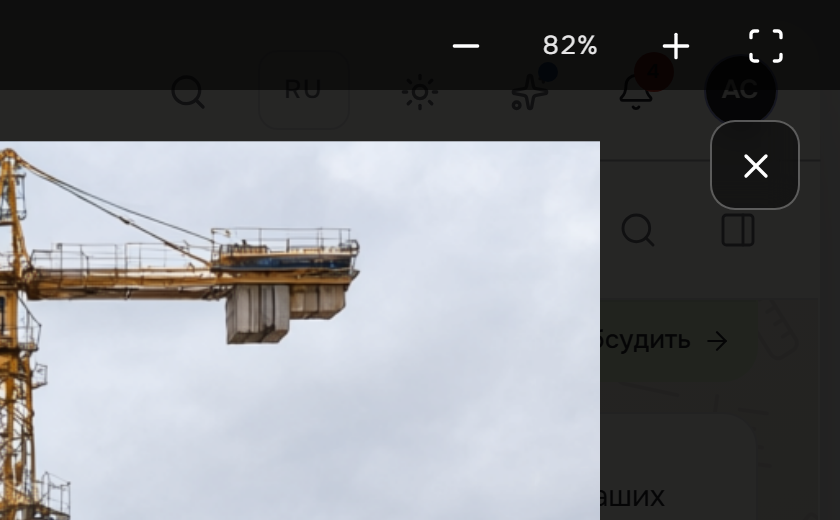
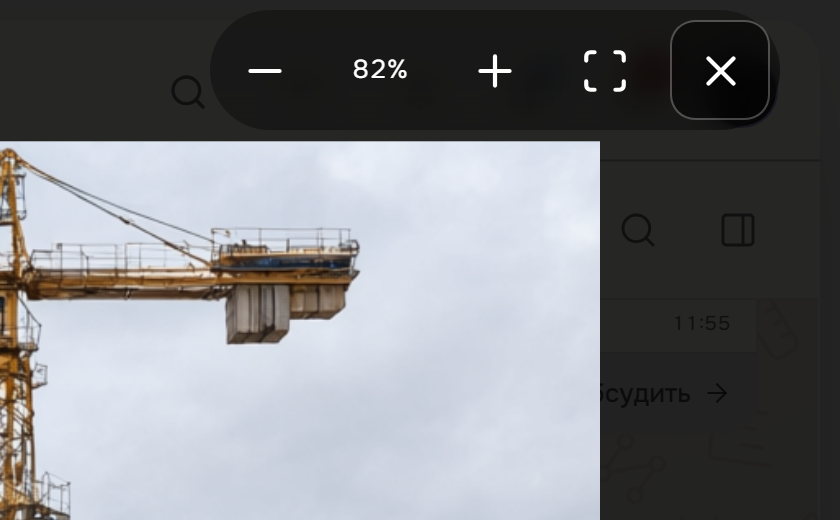
fix(web): хром просмотра — плавающая группа над кадром, фон на весь экран (#1012)

diff --git a/apps/web/src/shared/chat/image-lightbox.tsx b/apps/web/src/shared/chat/image-lightbox.tsx
@@ -1,12 +1,11 @@
-import { ChevronLeft, ChevronRight, X } from 'lucide-react';
-import { useEffect, useRef, type MouseEvent as ReactMouseEvent } from 'react';
+import { ChevronLeft, ChevronRight, Minus, Plus, Scan, X } from 'lucide-react';
+import { useEffect, useMemo, useRef, useState, type MouseEvent as ReactMouseEvent } from 'react';
 import { createPortal } from 'react-dom';
 import type { MessageAttachment } from '@nodus/contracts';
 import { ui } from '@nodus/contracts';
 import { Button } from '@nodus/ui/components/button';
 
 import { useImageZoom } from '../files/use-image-zoom.js';
-import { ViewerZoomBar } from '../files/viewer-zoom-bar.js';
 import { LightboxFrame } from './lightbox-frame.js';
 /**
  * Лайтбокс изображения галереи (plan chat-attachments-plan, добро владельца
@@ -18,17 +17,24 @@ import { LightboxFrame } from './lightbox-frame.js';
  * (a11y); клики по самому фото и кнопкам не закрывают диалог. Кадр, загрузка
  * и ретрай — `lightbox-frame.tsx`.
  *
- * Зум (#721): та же панель масштаба, что у вложений (`ViewerZoomBar`), в той
- * же верхней полосе; 100% — натуральные пиксели, вписывание — «по размеру
- * экрана» с полями 15%. Стрелки делят две роли (решение #721): фокус в
- * области просмотра И картинка больше окна — стрелки сдвигают её (панорама),
- * иначе — листают галерею, как раньше; `+`/`−`/`0` работают только при фокусе
- * в области. Смена кадра сбрасывает масштаб и сдвиг.
+ * Зум (#721): 100% — натуральные пиксели, вписывание — «по размеру экрана»
+ * с полями 15%. Стрелки делят две роли (решение #721): фокус в области
+ * просмотра И картинка больше окна — стрелки сдвигают её (панорама), иначе —
+ * листают галерею, как раньше; `+`/`−`/`0` работают только при фокусе в
+ * области. Смена кадра сбрасывает масштаб и сдвиг.
  *
- * Крестик — отдельная плашка со скруглением НИЖЕ полосы (24.11.2026): в
- * оболочке он стоял впритык под системным крестиком окна и читался второй
- * кнопкой закрытия окна; промах сворачивал программу в трей.
+ * Хром (вердикт владельца 25.11.2026): фон — СПЛОШНОЕ затемнение всего экрана
+ * (кадр остаётся ярким), а строка масштаба с крестиком плавает свободной
+ * группой в тёмном поле НАД кадром — по центру свободного поля между верхним
+ * краем кадра и верхней кромкой экрана. Так значки не стоят впритык к кнопкам
+ * окна оболочки (у верхней кромки получались «два крестика») и не накрывают
+ * фото; компактные плашки под счётчиком и группой держат контраст, когда
+ * увеличенный кадр уходит под хром.
  */
+
+/** Кнопки масштаба в группе хрома: белые ghost-значки крупнее обычных. */
+const CONTROL_CLASS =
+  "text-white hover:bg-white/15 hover:text-white [&_svg:not([class*='size-'])]:size-5";
 
 /** Доля экрана под вписанную картинку — те же поля, что у кадра лайтбокса. */
 const FIT_FACTOR = 0.85;
@@ -57,6 +63,34 @@ export function ImageLightbox({
   const image = images[index];
   // Зум живёт на весь лайтбокс, но сбрасывается сменой кадра (resetKey).
   const zoom = useImageZoom({ fitFactor: FIT_FACTOR, resetKey: image?.id });
+
+  // Свободное поле над кадром (те же 85% окна без апскейла, что у кадра):
+  // строка хрома центрируется в нём, а не прижимается к верхней кромке.
+  const [viewport, setViewport] = useState(() => ({
+    width: typeof window === 'undefined' ? 0 : window.innerWidth,
+    height: typeof window === 'undefined' ? 0 : window.innerHeight,
+  }));
+  useEffect(() => {
+    const measure = () => setViewport({ width: window.innerWidth, height: window.innerHeight });
+    measure();
+    window.addEventListener('resize', measure);
+    return () => window.removeEventListener('resize', measure);
+  }, []);
+  const chromeTop = useMemo(() => {
+    const width = image?.width ?? 0;
+    const height = image?.height ?? 0;
+    if (width > 0 && height > 0 && viewport.height > 0) {
+      const ratio = width / height;
+      const fitWidth = Math.min(
+        FIT_FACTOR * viewport.width,
+        FIT_FACTOR * viewport.height * ratio,
+        width,
+      );
+      return Math.max(0, (viewport.height - fitWidth / ratio) / 2) / 2;
+    }
+    // Кадр без габаритов (старые строки) — потоковый фолбэк: поле 15% экрана.
+    return (viewport.height * 0.075) / 2;
+  }, [image?.width, image?.height, viewport]);
 
   // Отложенное закрытие по заднику (см. BACKDROP_CLOSE_DELAY): второй клик
   // пары или `dblclick` его отменяют — двойной клик только меняет масштаб.
@@ -133,41 +167,75 @@ export function ImageLightbox({
       onPointerDown={(event) => event.stopPropagation()}
       className="pointer-events-auto fixed inset-0 z-[80] flex items-center justify-center bg-black/85 outline-none"
     >
-      {/* Хром лайтбокса — ОТДЕЛЬНЫЙ слой над кадром (z-20 против z-0 кадра).
-          Подложка СПЛОШНАЯ (`bg-black/60` + blur), не градиент: на светлом
-          скриншоте градиентный скрим не читался и полоса сливалась с фото
-          (живая проверка 11.11). Крестик — отдельная плашка НИЖЕ полосы
-          (замечание владельца 24.11.2026): в оболочке он стоял вплотную
-          под системным крестиком окна, выглядел так же и читался второй
-          кнопкой закрытия окна (промах сворачивает программу в трей).
-          Полоса места под него больше не резервирует. */}
-      <div className="absolute inset-x-0 top-0 z-20" onClick={(event) => event.stopPropagation()}>
-        <ViewerZoomBar
-          leading={`${index + 1} / ${images.length}`}
-          leadingClassName="font-mono text-xs tabular-nums text-white"
-          percent={zoom.percent}
-          canZoomIn={zoom.canZoomIn}
-          canZoomOut={zoom.canZoomOut}
-          onZoomIn={zoom.zoomIn}
-          onZoomOut={zoom.zoomOut}
-          onReset={zoom.reset}
-          className="bg-black/60 text-white/90 backdrop-blur-sm"
-          controlClassName="text-white hover:bg-white/15 hover:text-white"
-        />
-      </div>
-      <Button
-        variant="ghost"
-        size="icon-lg"
-        aria-label={ui.common.close}
-        title={ui.common.close}
-        className="absolute top-12 right-4 z-20 border-white/25 bg-black/45 text-white backdrop-blur-sm hover:border-white/40 hover:bg-white/15 hover:text-white"
-        onClick={(e) => {
-          e.stopPropagation();
-          onClose();
-        }}
+      {/* Хром — свободная строка в тёмном поле над кадром (вердикт 25.11.2026):
+          фон сплошной, кадр яркий и не накрыт; строка центрируется в свободном
+          поле над кадром — у верхней кромки значки читались рядом с кнопками
+          окна. Компактные плашки держат контраст, когда увеличенный кадр
+          уходит под хром. */}
+      <div
+        role="toolbar"
+        aria-label={ui.files.zoomPanel}
+        className="absolute inset-x-0 z-20 -translate-y-1/2 px-6"
+        style={{ top: chromeTop }}
+        onClick={(event) => event.stopPropagation()}
       >
-        <X />
-      </Button>
+        <div className="flex items-center justify-between gap-3">
+          <span className="rounded-full bg-black/35 px-2.5 py-1 font-mono text-xs tabular-nums text-white backdrop-blur-sm">
+            {index + 1} / {images.length}
+          </span>
+          <div className="flex items-center gap-1 rounded-full bg-black/35 p-1 text-white backdrop-blur-sm">
+            <Button
+              type="button"
+              variant="ghost"
+              size="icon-lg"
+              onClick={zoom.zoomOut}
+              disabled={!zoom.canZoomOut}
+              aria-label={ui.files.zoomOut}
+              title={ui.files.zoomOut}
+              className={CONTROL_CLASS}
+            >
+              <Minus />
+            </Button>
+            <span className="w-12 text-center text-[13px] tabular-nums">{zoom.percent}%</span>
+            <Button
+              type="button"
+              variant="ghost"
+              size="icon-lg"
+              onClick={zoom.zoomIn}
+              disabled={!zoom.canZoomIn}
+              aria-label={ui.files.zoomIn}
+              title={ui.files.zoomIn}
+              className={CONTROL_CLASS}
+            >
+              <Plus />
+            </Button>
+            <Button
+              type="button"
+              variant="ghost"
+              size="icon-lg"
+              onClick={zoom.reset}
+              aria-label={ui.files.zoomFit}
+              title={ui.files.zoomFit}
+              className={`${CONTROL_CLASS} ml-1`}
+            >
+              <Scan />
+            </Button>
+            <Button
+              variant="ghost"
+              size="icon-lg"
+              aria-label={ui.common.close}
+              title={ui.common.close}
+              className="ml-1 size-10 border-white/25 bg-black/45 text-white hover:border-white/40 hover:bg-white/15 hover:text-white [&_svg:not([class*='size-'])]:size-5"
+              onClick={(e) => {
+                e.stopPropagation();
+                onClose();
+              }}
+            >
+              <X />
+            </Button>
+          </div>
+        </div>
+      </div>
       {index > 0 ? (
         <Button
           variant="ghost"

diff --git a/apps/web/src/shared/chat/image-lightbox-zoom.test.tsx b/apps/web/src/shared/chat/image-lightbox-zoom.test.tsx
@@ -116,36 +116,35 @@ describe('ImageLightbox: масштаб', () => {
     expect(screen.getByText('1 / 2')).toBeTruthy();
   });
 
-  it('полоса и кнопки — отдельный слой над кадром при увеличении', () => {
+  it('хром и кнопки — отдельный слой над кадром при увеличении', () => {
     renderLightbox();
     fireEvent.click(button(ui.files.zoomIn));
     fireEvent.click(button(ui.files.zoomIn));
     expect(percent()).toBe('125%');
 
     const toolbar = screen.getByRole('toolbar', { name: ui.files.zoomPanel });
-    const layer = toolbar.parentElement as HTMLElement;
     const viewport = area();
-    // Полоса не внутри кадра: overflow и пан кадра её не режут и не сдвигают.
+    // Хром не внутри кадра: overflow и пан кадра его не режут и не сдвигают.
     expect(viewport.contains(toolbar)).toBe(false);
     // Слои сравнимы: хром z-20 против кадра z-0 в одном контейнере.
-    expect(layer.parentElement).toBe(viewport.parentElement);
-    expect(layer.className).toContain('z-20');
-    expect(layer.className).toContain('absolute');
+    expect(toolbar.parentElement).toBe(viewport.parentElement);
+    expect(toolbar.className).toContain('z-20');
+    expect(toolbar.className).toContain('absolute');
     expect(viewport.className).toContain('z-0');
-    // Подложка сплошная (не градиент) — полоса читается на светлом фото.
-    expect(toolbar.className).toContain('bg-black/60');
-    expect(toolbar.className).toContain('backdrop-blur-sm');
+    // Полосы-подложки нет: фон — сплошное затемнение, хром плавает строкой.
+    expect(toolbar.className).not.toContain('bg-black/60');
     expect(toolbar.className).not.toContain('bg-card');
-    expect(toolbar.className).toContain('text-white/90');
-    // Крестик — отдельная плашка ПОД полосой (не в одном ряду с кнопками
-    // окна): полоса места под него не резервирует, кнопка вне тулбара,
-    // скругление наше кнопочное (не круг) — замечание владельца 24.11.2026.
+    // Строка центрируется в свободном поле над кадром, а не льнёт к кромке.
+    expect(Number.parseFloat(toolbar.style.top)).toBeGreaterThan(0);
+    // Крестик — последним в правой группе (не отдельной кнопкой в углу окна):
+    // наша скруглённая плашка, не круг; фон на весь экран.
     const close = screen.getByRole('button', { name: ui.common.close });
-    expect(toolbar.className).not.toContain('pr-12');
-    expect(toolbar.contains(close)).toBe(false);
-    expect(close.className).toContain('z-20');
-    expect(close.className).toContain('top-12');
-    expect(close.className).toContain('size-9');
+    const dialog = screen.getByRole('dialog');
+    expect(dialog.className).toContain('inset-0');
+    expect(dialog.className).not.toContain('top-16');
+    expect(toolbar.contains(close)).toBe(true);
+    expect(close.className).toContain('size-10');
+    expect(close.className).toContain('border-white/25');
     expect(close.className).not.toContain('rounded-full');
   });
 

diff --git a/apps/web/src/shared/files/video-player-view.tsx b/apps/web/src/shared/files/video-player-view.tsx
@@ -9,9 +9,10 @@ import { Button } from '@nodus/ui/components/button';
  * не в карточке файла (её шапка — хром документов: версия, «Редактировать»),
  * а во весь экран. Плеер вписан по обеим осям с сохранением пропорций
  * (`object-contain`) — поля по краям читаются как кадр кинозала, а не
- * пустая карточка. Сверху тонкая строка: имя, «Скачать», закрыть. Закрытие —
- * плашка со скруглением нашего контрола и обводкой, а не голый крестик впритык
- * к кнопкам окна (замечание владельца 24.11.2026, как в лайтбоксе).
+ * пустая карточка. Сверху тонкая строка: имя, «Скачать», закрыть. Фон —
+ * СПЛОШНОЕ затемнение всего экрана (включая верхнюю панель приложения), плеер
+ * вписан по обеим осям ниже строки. Закрытие — плашка со скруглением нашего
+ * контрола и обводкой, а не голый крестик (25.11.2026, как в лайтбоксе).
  * Нативные `controls` остаются — это единственная полоса управления.
  *
  * Фон — полупрозрачное затемнение `black/75` (#790): портал под плеером

diff --git a/apps/web/src/shared/files/video-player-view.test.tsx b/apps/web/src/shared/files/video-player-view.test.tsx
@@ -21,7 +21,7 @@ describe('VideoPlayerView — кинозал видео (#787)', () => {
     expect(dialog.parentElement).toBe(document.body);
     expect(dialog.className).toContain('fixed');
     expect(dialog.className).toContain('inset-0');
-    // #790: полупрозрачное затемнение портала, не сплошной чёрный.
+    // Фон — сплошное затемнение всего экрана, без светлой полосы сверху.
     expect(dialog.className).toContain('bg-black/75');
 
     const video = document.querySelector('video');

diff --git a/docs/gotchas/frontend.md b/docs/gotchas/frontend.md
@@ -168,10 +168,10 @@
 - **`max-h-full` у ребёнка `grid place-items-center` высоту НЕ ограничивает: auto-строка грида считается по intrinsic-вкладу элемента, а процент `max-height` в этом расчёте циклический и трактуется как initial (`auto`)** (#767, замер Chromium: видео 1728×1080 держало высоту 1080 при панели 610/1060, полоса управления уходила под клип `overflow-hidden`). Разная величина вылезания — от соотношения ширины панели и пропорций ролика: `max-w-full` ширину ограничивает (колонку задаёт контейнер), а высота остаётся width-driven. Канон: сцена медиа — `flex items-center justify-center` при ОПРЕДЕЛЁННОЙ высоте контейнера (`size-full` внутри `flex-1`/`absolute`) + `max-h-full max-w-full object-contain` у видео/картинки: flexbox резолвит процент max-height против definite height контейнера, грид — нет. Подтверждено CSS Sizing 3 §percentage-sizing (циклический процент в intrinsic-вкладе = initial) и csswg-drafts #3418 (грид: в intrinsic-фазе проценты трактуются как `auto`); регресс — `media-viewer.test.tsx`.
 
 - **React 19 вешает `wheel`/`touchstart`/`touchmove` ПАССИВНО на корень — `preventDefault` в `onWheel` не работает** (#721, зум изображения): пассивный слушатель не может отменить прокрутку/браузерный зум, поэтому `Ctrl`+колесо над картинкой масштабировало СТРАНИЦУ, а не картинку (и `TouchEvent`-пинч не глушился). Лечение: нативный `addEventListener('wheel', handler, { passive: false })` на элемент области (и то же для touch, если жест на touch-событиях) — `useEffect` c возвратом `removeEventListener`. React сделал это намеренно (facebook/react#19654: React 16 вёл себя так же из-за вмешательства Chrome 73, React 17 сохранил поведение); подтверждено обсуждением React и SO «React onWheel handler can't preventDefault because it's a passive event listener». Тот же механизм — для `touchmove` (жесты пинча/скролла), pointer-события пассивными не являются (drag на `pointermove` работает через React).
-- **Прозрачная ghost-панель поверх фотографии «исчезает» — z-index и hit-test тут НЕ виноваты, ловушка в контрасте** (#721, лайтбокс чата, живая проверка владельца 11.11.2026): полоса масштаба (текст `white/70`, ghost-кнопки без фона) при увеличении кадра оказывалась НАД светлым фото и визуально пропадала — приёмка читалась как «картинка накрыла панель, кнопки недоступны», хотя `elementFromPoint` вверху экрана возвращал панель, а не кадр (проверено headless-репро структуры слоёв: positioned z-auto кадр рисуется в шаге 8, positive z-index хрома — в шаге 9, CSS 2.1 Appendix E). Лечение: СПЛОШНАЯ подложка + явные слои (хром `z-20`, кадр `z-0`, разные ветки дерева — overflow кадра его не режет). Градиентный скрим первой итерации (`bg-linear-to-b from-black/70`) не читался на светлом скриншоте интерфейса (вторая живая проверка 11.11) — канон «плоско, без градиентов» (nodus-ui-style п. 3) и здесь прав: полоса получила `bg-black/60` + `backdrop-blur-sm`, текст `white`/`white/90`, hover `bg-white/15`; крестик — отдельная плашка со скруглением НИЖЕ полосы (замечание владельца 24.11.2026: впритык под системным крестиком окна он читался второй кнопкой закрытия); у файлового просмотрщика подложка панели — своя (`bg-card` у примитива `ViewerZoomBar`), чтобы читаемость не зависела от контента под ней. Мораль: оверлей поверх произвольного контента обязан иметь собственную непрозрачную подложку и контраст текста, а проверку «панель перекрыта» начинать с контраста/фона, а не с z-index.
+- **Прозрачная ghost-панель поверх фотографии «исчезает» — z-index и hit-test тут НЕ виноваты, ловушка в контрасте** (#721, лайтбокс чата, живая проверка владельца 11.11.2026): полоса масштаба (текст `white/70`, ghost-кнопки без фона) при увеличении кадра оказывалась НАД светлым фото и визуально пропадала — приёмка читалась как «картинка накрыла панель, кнопки недоступны», хотя `elementFromPoint` вверху экрана возвращал панель, а не кадр (проверено headless-репро структуры слоёв: positioned z-auto кадр рисуется в шаге 8, positive z-index хрома — в шаге 9, CSS 2.1 Appendix E). Лечение: СПЛОШНАЯ подложка + явные слои (хром `z-20`, кадр `z-0`, разные ветки дерева — overflow кадра его не режет). Градиентный скрим первой итерации (`bg-linear-to-b from-black/70`) не читался на светлом скриншоте интерфейса (вторая живая проверка 11.11) — канон «плоско, без градиентов» (nodus-ui-style п. 3) и здесь прав: полоса получила `bg-black/60` + `backdrop-blur-sm`, текст `white`/`white/90`, hover `bg-white/15`; финальный хром (25.11.2026) — сплошное затемнение всего экрана, а строка масштаба с крестиком плавает свободной группой в тёмном поле над кадром (у верхней кромки значки читались рядом с кнопками окна); у файлового просмотрщика подложка панели — своя (`bg-card` у примитива `ViewerZoomBar`), чтобы читаемость не зависела от контента под ней. Мораль: оверлей поверх произвольного контента обязан иметь собственную непрозрачную подложку и контраст текста, а проверку «панель перекрыта» начинать с контраста/фона, а не с z-index.
 - **`setPointerCapture` на контейнере переадресует `click` ЕМУ, а не картинке — `stopPropagation` в `onClick` ребёнка не срабатывает** (#721, лайтбокс чата, живая проверка 11.11.2026): область просмотра захватывает указатель на `pointerdown` (нужно для панорамирования), после чего браузер диспатчит `click` в захвативший элемент — обработчик `<img onClick={e => e.stopPropagation()}>` никогда не вызывался, клик по фото всплывал до диалога и закрывал лайтбокс; двойной клик (два клика подряд) выбрасывал из просмотра вместо переключения масштаба. Проверено живьём в Chromium: `pointerdown` на `img` при capture у контейнера → `click.target` = контейнер. Канон: «нажатие по фото» распознавать на `pointerdown` (`event.target.closest('img')`) и гасить клик в обработчике контейнера; закрытие по заднику откладывать на паузу двойного клика (первый клик пары приходит раньше `dblclick`).
 - **Нативный drag изображения убивает pointer-жест: `<img>` без `draggable={false}` запускает drag-and-drop, и браузер обрывает последовательность** (#721, лайтбокс чата: «картинка не двигается при 125%», живая проверка 11.11.2026): живой замер в Chromium — при протяжке по `<img>` с драг-атрибутом по умолчанию приходит `dragstart`, всего 2 `pointermove`, затем `pointercancel` (картинка дёргается на ~12 px и встаёт); с `draggable="false"` — 9 `pointermove` и полный сдвиг. Канон: любую поверхность с pointer-панорамой помечать `draggable={false}` на картинках + `onDragStart={e => e.preventDefault()}` на контейнере (jsdom этого не ловит — нужен живой прогон).
-- **Полноэкранный просмотр в оболочке: голый крестик впритык под системным крестиком окна читается второй кнопкой закрытия** (замечание владельца 24.11.2026, просмотр картинки из чата): окно Tauri нативное (`create_main_window` без `decorations`), веб-содержимое начинается ПОД полосой заголовка Windows — `absolute top-1 right-3` ставил крестик лайтбокса прямо под системной кнопкой закрытия; оба белые, без подложки, а промах сворачивает программу в трей (runbook `desktop-testing-guide.md`). Канон: крестик полноэкранного просмотра — отдельная плашка 36×36 со скруглением нашего контрола (10px, НЕ круг) и обводкой, НИЖЕ полосы с масштабом (зазор 12px), по правому краю в линию с кнопками; в браузере то же расположение безвредно, в оболочке обязательно. Подтверждено снимком владельца и кодом окна; регресс — `image-lightbox-zoom.test.tsx`, `video-player-view.test.tsx`.
+- **Полноэкранный просмотр в оболочке: хром у САМОГО верхнего края читается рядом с кнопками окна — два крестика друг под другом** (замечания владельца 24–25.11.2026, просмотр картинки/видео из чата): окно Tauri нативное (`create_main_window` без `decorations`), веб-содержимое начинается ПОД полосой заголовка Windows. Канон: фон просмотра — сплошное затемнение ВСЕГО экрана (верхняя панель приложения тоже, никакой светлой полосы), кадр яркий и не накрыт; строка масштаба с крестиком — свободная группа в тёмном поле НАД кадром, по центру свободного поля между верхним краем кадра и верхней кромкой экрана (не у кромки), кнопки крупнее обычных, компактные плашки под счётчиком и группой держат контраст, когда увеличенный кадр уходит под хром; крестик — последним в правой группе, наша скруглённая плашка (10px, НЕ круг). Подтверждено снимками владельца (24.11 — два крестика рядом; 25.11 — «яркая картинка, весь фон затемнён, значки ниже») и кодом окна; регресс — `image-lightbox-zoom.test.tsx`, `video-player-view.test.tsx`.
 - **dnd-kit: живой индекс вставки «над/под/между» — только `onDragMove` + пересчёт на КАЖДОМ движении; `onDragOver` в прежнем движке канбана считал индекс при входе в колонку (ранний return при `activeStage === overStage`) и по верху ПЕРЕТАСКИВАЕМОЙ карточки, а не по указателю — фантом вставал не с той стороны и «залипал», а в колонке из 1–2 карточек «между» было недостижимо (#737, репро владельца 10.11). Пересортировка массива ВО ВРЕМЯ drag — поддерживаемый путь: `SortableContext` видит `itemsHaveChanged` и на этот кадр снимает трансформы + перемеряет droppable-контейнеры (исходник @dnd-kit/sortable 10: `disableTransforms`, `measureDroppableContainers(items)`); анти-осциллятор после межколоночного переноса обязателен и НЕ должен гасить внутриколоночные кадры. Drop не пересчитывает индекс заново — иначе фактический порядок расходится с показанным слотом. Подтверждено чтением исходников sortable 10.0.0 + регресс-тестами `kanban-drop-index.test.ts` / `use-kanban-board.test.tsx`.
 - **dnd-kit: `verticalListSortingStrategy` НЕСОВМЕСТИМА с живой перестановкой массива — разворачивает сторону вставки, и «фикс» индекса не помогает** (#737, второй заход 13.11.2026 — владелец на проде: «карточку нельзя разделить двумя, нельзя в самый верх»). Стратегия считает трансформ не от фактической позиции карточки, а от ТЕКУЩИХ индексов (`activeIndex`/`overIndex` в уже переставленном массиве) и всегда двигает активную карточку к `over`: при состоянии «вставка после B» (`activeIndex = overIndex + 1`) она ставит активную ВЫШЕ B и сдвигает B вниз (проверено вызовом `verticalListSortingStrategy` из @dnd-kit/sortable 10.0.0: `activeIndex=1/overIndex=0` и `activeIndex=0/overIndex=1` дают ОДИНАКОВЫЕ трансформы `item0 +высота, item1 −высота`). Пользователь видит слот на противоположной стороне: «между двумя» не читается, верх визуально недостижим, drop расходится с фантомом; расчёт индекса (19 unit-тестов) при этом верен. Канон: при живом порядке стратегия — нейтральная (`shared/lib/board/board-sorting.ts`, `liveBoardSortingStrategy = () => null`): соседи разъезжаются сменой DOM-порядка, `SortableContext` остаётся только ради контекста `useSortable`/клавиатуры. Менять на штатную стратегию нельзя, пока борд переставляется в `onDragMove`; страж — `board-sorting.test.ts` (инвариант «ни одной позиции трансформа»). Подтверждено: исходник sortable 10.0.0 + живая проба Playwright на :4173 (внутри колонки «между/верх», межколоночно «верх/между», drop = слот, серверный порядок совпал).
 - **dnd-kit: FLIP-анимацию движения нельзя мерить по `getBoundingClientRect` — бегущая анимация попадает в замер и раскачивает сама себя** (#737, репро владельца 13.11.2026: «призрак дико вибрирует при DnD»). Плавность давала `verticalListSortingStrategy`; после её выключения (она разворачивала сторону вставки) движение возвращается FLIP'ом в `shared/lib/board/board-flip.ts` + `board-sortable-card.tsx`: позиция до/после коммита → WAAPI `translate(старая − новая) → 0` (200 мс, `cubic-bezier(0.25,1,0.5,1)`, как у dnd-kit). Ключевой механизм: позиция берётся из `offsetTop`/`offsetLeft` — это геометрия РАСКЛАДКИ, CSS-трансформы её не меняют (CSSOM). Замер по `getBoundingClientRect` включает текущий transform: dnd-kit перерисовывает карточки на КАЖДОЕ движение указателя, «позиция до» каждый кадр съезжала на прогресс анимации, FLIP перезапускал сам себя — вибрация призрака. Layout-позиция стабильна, пока реально не изменился порядок; лишние перезапуски исключены. Вторая деталь: `setNodeRef` dnd-kit мёржится стабильным `useCallback` (пере-монтирование ref на каждом рендере стирает «позицию до»), а стартовый кадр при пере-целивании — от текущего computed-transform, чтобы движение не «щёлкало». FLIP не участвует в выборе места: слоты «верх/между/низ» и drop остаются прежними. Подтверждено живой пробой: `Element.animate` получает `translate(0, 105–254px)`, к 320 мс все трансформы нулевые, после остановки указателя новых анимаций нет (0 перезапусков за 500 мс).

diff --git a/apps/web/src/features/chat/README.md b/apps/web/src/features/chat/README.md
@@ -497,9 +497,10 @@ PATCH hidden:false → инвалидация списка ДО перехода
 разделитель, visibility, не display). Лайтбокс галереи
 (`image-lightbox.tsx`): портал поверх интерфейса, Esc/задник — закрыть,
 стрелки — листание (панораме, когда картинка увеличена и фокус в области
-просмотра, #721), счётчик «N / M», панель зума 25–400% в верхней полосе,
-крестик — отдельная плашка со скруглением ниже полосы (не в одном ряду с
-кнопками окна оболочки, 24.11.2026), фокус возвращается плитке; клик по плитке
+просмотра, #721), счётчик «N / M», панель зума 25–400% — свободная строка в
+тёмном поле над кадром (по центру свободного поля; 25.11.2026: фон — сплошное
+затемнение всего экрана, кадр яркий, а значки с крестиком не у верхней кромки,
+где читались рядом с кнопками окна), фокус возвращается плитке; клик по плитке
 галереи больше не заглушка. Вспышка контура шелла ЗАПРЕЩЕНА на сворачивание/
 разворачивание панелей (флаг width-transition в `circuit-frame.tsx`: на
 переходной геометрии пульс улетал поверх рейки — вердикт владельца).
